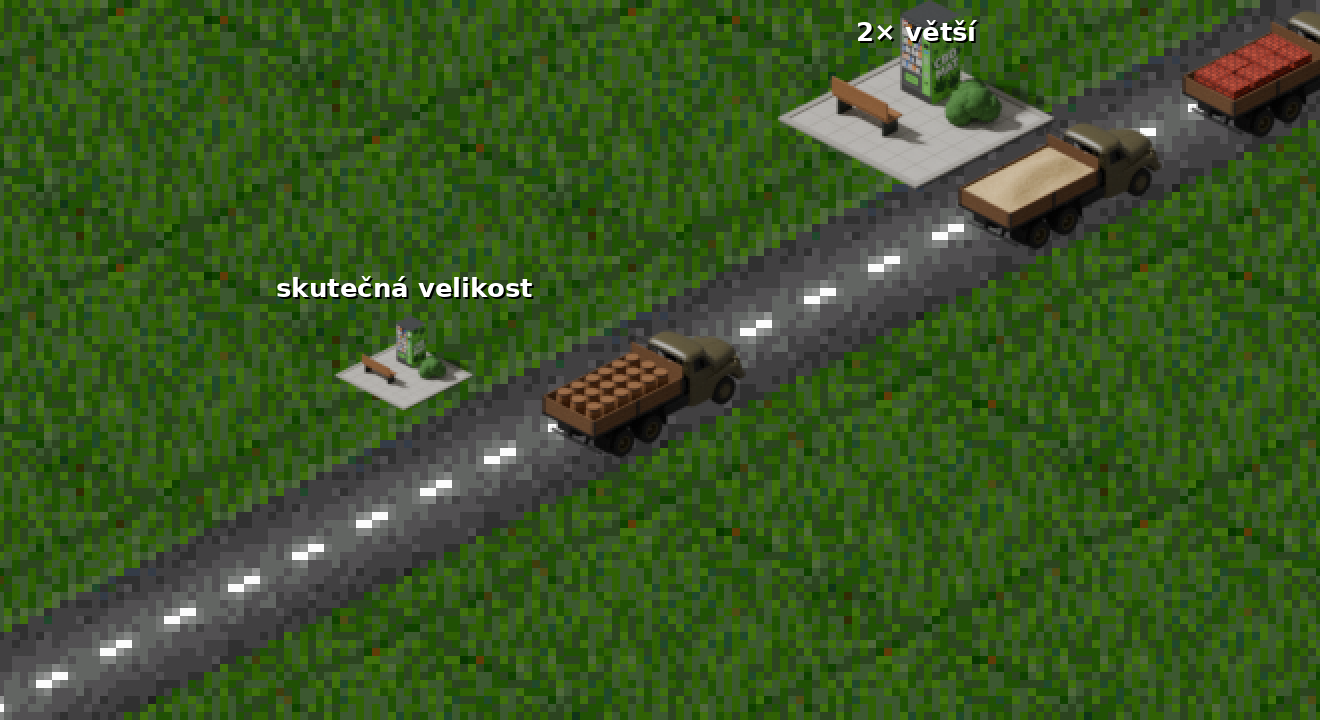
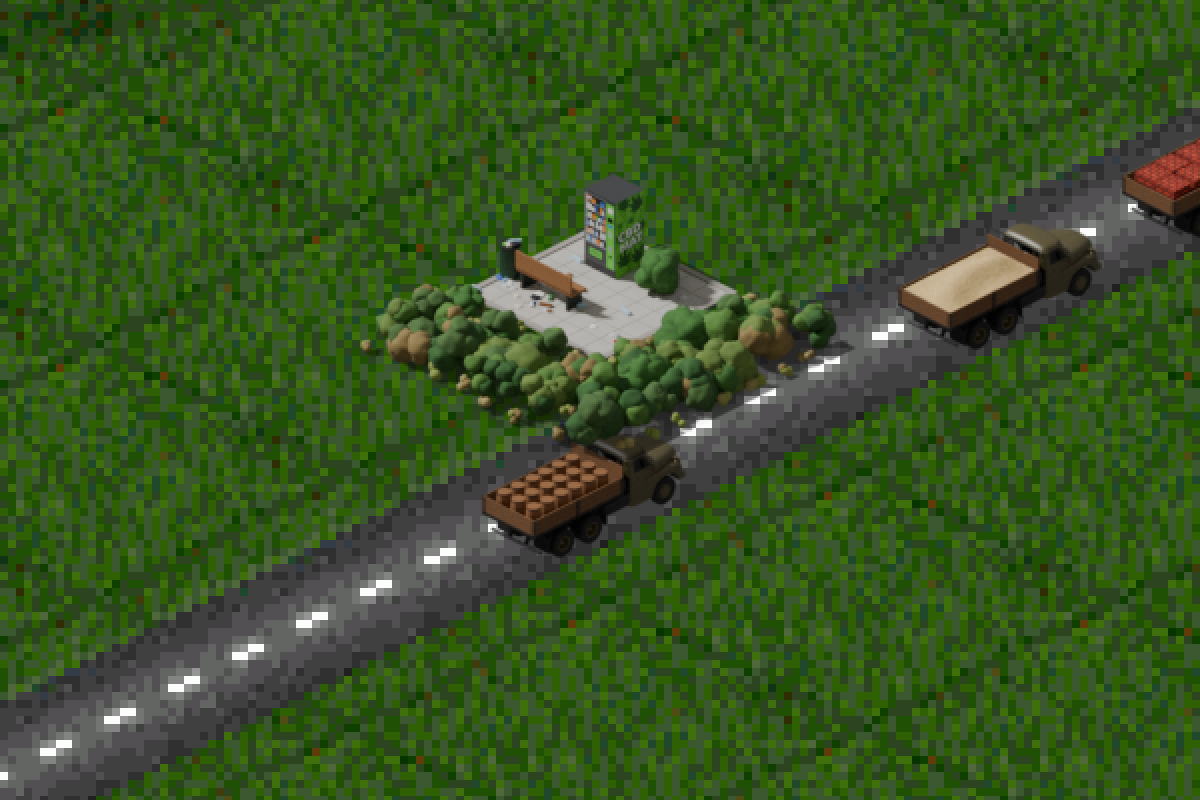
Automat do severniho rohu policka, kolem divoke krovi, kos a odpadky
Hrac: "2x vetsi jo, dame do rohu policka a zbytek policka krovi",
"vedle lavicky dej odpadkovy kos a odpadky rozhazene po zemi". Krovi z
koulí primo v siti se sumem, render 20 s misto desitek minut.

Claude-Session: https://claude.ai/code/session_01P6zYdmMEQjTTZJyV6Qb8Ch

diff --git a/automat/render_automat.py b/automat/render_automat.py
@@ -6,7 +6,9 @@
 # klapka se zelenym stitkem PULL, bok polepeny zelenou folii s listy konopi, paprsky a bilym napisem CBD MAT.
 # Skupina je ctverec (hrac: "to mas obdelnicek, neco jako 2x1 policko", "lavicku postav pred automat, otoc ji
 # sedadlem k automatu a mas ctverec"): automat vzadu, lavicka pred nim sedadlem k nemu, ker vedle, dlazba 4 x 4 m
-# s obrubnikem uprostred policka. MERITKO=2 zvetsi celou skupinu i s dlazbou kolem stredu policka.
+# s obrubnikem. Hrac: "2x vetsi jo, dame do rohu policka a zbytek policka krovi", "vedle lavicky dej odpadkovy kos
+# a odpadky rozhazene po zemi": skupina je v severnim rohu policka (MERITKO, vychozi 2), zbytek zarostly divokym
+# neudrzovanym krovim stejne zvetsenym, mezi nim plevel.
 #   python3 render_automat.py <vystup.png>
 # Souradnice jako ve hre: x k jihozapadu, y k jihovychodu, z nahoru, pocatek v severnim rohu policka.
 import bpy, bmesh, os, sys, math, json, random
@@ -18,7 +20,7 @@ from PIL import Image, ImageDraw, ImageFont
 VYSTUP = sys.argv[-1]
 PX_M = 12.2
 RAM = 384
-K = float(os.environ.get("MERITKO", "1"))
+K = float(os.environ.get("MERITKO", "2"))
 T = 256 / (math.sqrt(2) * PX_M)               # policko 14,84 m
 C = T / 2                                       # stred policka
 TU = os.path.dirname(os.path.abspath(__file__))
@@ -160,16 +162,35 @@ M = {
     "lavicka": mat("lavicka", (138, 92, 52), 0.7),
     "kov": mat("kov", (52, 58, 54), 0.5, kov=0.5),
     "ker": mat("ker", (54, 98, 40), 0.9, sum_=0.32, meritko=9.0),
+    "kos": mat("kos", (38, 70, 46), 0.5, kov=0.3),
+    "cerna": mat("cerna", (14, 14, 14), 0.9),
 }
+# divoke krovi: nekolik zeleni (i zlutava a tmava), suche hnede, plevel
+KRE = [mat(f"krovi{i}", c, 0.9, sum_=0.3, meritko=9.0) for i, c in
+       enumerate([(54, 98, 40), (70, 108, 44), (44, 82, 36), (88, 112, 50), (62, 92, 46)])]
+SUCHE = mat("suche", (122, 104, 62), 0.95, sum_=0.25, meritko=9.0)
+PLEVEL = [mat("plevel0", (124, 140, 66), 0.95, sum_=0.25, meritko=12.0), mat("plevel1", (146, 136, 84), 0.95, sum_=0.25, meritko=12.0)]
+ODPAD = {"papir": [mat(f"papir{i}", c, 0.9) for i, c in enumerate([(236, 234, 226), (214, 206, 186), (200, 200, 204)])],
+         "plech": [mat(f"plech{i}", c, 0.35, kov=0.6) for i, c in enumerate([(196, 30, 34), (190, 192, 196), (36, 80, 170), (40, 140, 60)])],
+         "lahev": [mat(f"lahev{i}", c, 0.2) for i, c in enumerate([(160, 196, 214), (70, 140, 70), (120, 80, 40)])],
+         "kelimek": [mat(f"kelimek{i}", c, 0.7) for i, c in enumerate([(240, 240, 236), (150, 100, 60)])],
+         "sacek": [mat(f"sacek{i}", c, 0.6) for i, c in enumerate([(232, 232, 232), (60, 90, 170), (30, 30, 30)])],
+         "balicek": [mat("balicek", (96, 200, 58), 0.5)]}
 
 SITE = {}
 def bm_pro(m):
     if m.name not in SITE: SITE[m.name] = (m, bmesh.new())
     return SITE[m.name][1]
 
+OKRAJ = 0.3                                     # dlazba od severnich hran policka
+PC = OKRAJ + 2.0 * K                            # stred dlazby (4 x 4 m krat K) v severnim rohu
 def B(x, y, z):
-    """policko -> Blender; skupina je kolem stredu policka zvetsena K krat"""
-    return Vector((C + (y - C) * K, -(C + (x - C) * K), z * K))
+    """skupina -> Blender: skupina je navrzena kolem stredu policka C, zvetsena K krat a posunuta do severniho rohu"""
+    return Vector((PC + (y - C) * K, -(PC + (x - C) * K), z * K))
+
+def Bp(x, y, z):
+    """policko -> Blender bez zvetseni (divoke krovi)"""
+    return Vector((y, -x, z))
 
 def kvadr(m, x0, x1, y0, y1, z0, z1, pevne=False):
     """kvadr; pevne = na policku bez zvetseni (dlazba)"""
@@ -226,18 +247,110 @@ for i in range(n_):
         x, y = D0 + OBR + kr * i, D0 + OBR + kr * j
         kvadr(M["dlazba"], x + 0.012, x + kr - 0.012, y + 0.012, y + kr - 0.012, 0.0, Z_D)
 
-# kericek vpravo za automatem: par koul s hrbolky, mekce stinovany
-rnd = random.Random(5)
-KX, KY, KR = AX0 + 0.6, AY1 + 0.95, 0.6               # vpravo vedle automatu
-for i in range(9):                                     # hrbolaty ker z mensich chumacu, ne hladka koule
-    a = rnd.random() * 2 * math.pi; d = KR * 0.6 * math.sqrt(rnd.random())
-    rr = KR * (0.38 + 0.16 * rnd.random())
-    zc = KR * (0.45 + 0.5 * rnd.random()) * (1 - 0.4 * d / KR)
-    bpy.ops.mesh.primitive_ico_sphere_add(subdivisions=3, radius=rr * K, location=B(KX + d * math.cos(a), KY + d * math.sin(a), zc))
-    o = bpy.context.object; o.data.materials.append(M["ker"])
-    for p in o.data.polygons: p.use_smooth = True
-    dm = o.modifiers.new("hrbol", 'DISPLACE'); tx = bpy.data.textures.new(f"ker{i}", 'CLOUDS'); tx.noise_scale = 0.09 * K
-    dm.texture = tx; dm.strength = rr * 0.55 * K
+from mathutils import Matrix, noise
+def ker(cx, cy, r, vyska, materialy, seed, v_policku=False, chumacu=9, deleni=3):
+    """hrbolaty ker z chumacu koul: ve skupine (souradnice skupiny, zvetsi se K krat), nebo na policku (metry).
+    Koule jdou rovnou do site materialu (bmesh) a hrbolky dela sum na vrcholech, ne objekt s modifikatorem na kazdou
+    kouli: s divokym krovim je jich stovky a Blender by se s tolika objekty vlekl."""
+    rnd = random.Random(seed)
+    mapa, s = (Bp, 1.0) if v_policku else (B, K)
+    for i in range(chumacu):
+        a = rnd.random() * 2 * math.pi; d = r * 0.6 * math.sqrt(rnd.random())
+        rr = r * (0.38 + 0.16 * rnd.random())
+        zc = max(rr * 0.55, vyska * (0.45 + 0.5 * rnd.random()) * (1 - 0.4 * d / r) - rr * 0.3)
+        stred_ = mapa(cx + d * math.cos(a), cy + d * math.sin(a), zc)
+        bm = bm_pro(rnd.choice(materialy))
+        nove_v = bmesh.ops.create_icosphere(bm, subdivisions=deleni, radius=rr * s, matrix=Matrix.Translation(stred_))["verts"]
+        posun = Vector((rnd.random(), rnd.random(), rnd.random())) * 100
+        for v in nove_v:                                   # hrbolky: sum podel normaly jako drive Clouds a Displace
+            smer = (v.co - stred_).normalized()
+            n_ = noise.noise(v.co / (0.09 * s * 4) + posun) * 0.5 + noise.noise(v.co / (0.09 * s * 2) + posun) * 0.25
+            v.co += smer * n_ * rr * 0.55 * s
+        for f in {f for v in nove_v for f in v.link_faces}: f.smooth = True
+
+# kericek vpravo vedle automatu
+ker(AX0 + 0.6, AY1 + 0.95, 0.6, 1.0, [M["ker"]], 5)
+
+# odpadkovy kos vlevo vedle lavicky: zeleny plechovy valec s okrajem, plny az pres okraj
+LX, LY = AX1 + 1.4, (AY0 + AY1) / 2                  # stred lavicky
+KOSX, KOSY = LX, LY - 1.2
+def valec(m, x, y, z0, z1, r, n=16):
+    bm = bm_pro(m)
+    dole = [bm.verts.new(B(x + r * math.cos(2 * math.pi * k / n), y + r * math.sin(2 * math.pi * k / n), z0)) for k in range(n)]
+    nahore = [bm.verts.new(B(x + r * math.cos(2 * math.pi * k / n), y + r * math.sin(2 * math.pi * k / n), z1)) for k in range(n)]
+    bm.faces.new(dole[::-1]); bm.faces.new(nahore)
+    for k in range(n):
+        bm.faces.new((dole[k], dole[(k + 1) % n], nahore[(k + 1) % n], nahore[k]))
+valec(M["kos"], KOSX, KOSY, 0.04, 0.76, 0.22)
+valec(M["kov"], KOSX, KOSY, 0.74, 0.79, 0.24)
+valec(M["cerna"], KOSX, KOSY, 0.79, 0.792, 0.19)
+
+# odpadky: papiry, plechovky, PET lahve, kelimky, sacky a zelene balicky z automatu, nejvic kolem kose a pod lavickou
+rnd_o = random.Random(11)
+def odpadek(x, y, z0=0.0):
+    x = min(max(x, D0 + 0.12), D1 + 0.5); y = min(max(y, D0 + 0.12), D1 + 0.5)    # jen na dlazbe a u ni, ne za policko
+    druh = rnd_o.choices(["papir", "plech", "lahev", "kelimek", "sacek", "balicek"], [30, 18, 14, 10, 12, 16])[0]
+    m = rnd_o.choice(ODPAD[druh]); uhel = rnd_o.random() * 2 * math.pi
+    if druh in ("papir", "sacek"):
+        r = 0.09 if druh == "papir" else 0.14
+        bpy.ops.mesh.primitive_ico_sphere_add(subdivisions=1, radius=r * K, location=B(x, y, z0 + r * 0.35))
+        o = bpy.context.object; o.scale = (1.0, 0.8 + 0.4 * rnd_o.random(), 0.45 if druh == "papir" else 0.22)
+        o.rotation_euler[2] = uhel
+    elif druh == "balicek":
+        bpy.ops.mesh.primitive_cube_add(size=1, location=B(x, y, z0 + 0.012)); o = bpy.context.object
+        o.scale = (0.12 * K, 0.08 * K, 0.026 * K); o.rotation_euler[2] = uhel
+    else:
+        r, delka = {"plech": (0.04, 0.14), "lahev": (0.05, 0.28), "kelimek": (0.045, 0.1)}[druh]
+        bpy.ops.mesh.primitive_cylinder_add(vertices=10, radius=r * K, depth=delka * K, location=B(x, y, z0 + r),
+                                            rotation=(math.radians(90), 0, uhel))
+        o = bpy.context.object
+    o.data.materials.append(m)
+for i in range(22):                                                              # kolem kose
+    odpadek(KOSX + rnd_o.gauss(0, 0.5), KOSY + rnd_o.gauss(0, 0.5))
+for i in range(5):                                                               # pres okraj kose
+    a = rnd_o.random() * 2 * math.pi
+    odpadek(KOSX + 0.1 * math.cos(a), KOSY + 0.1 * math.sin(a), 0.79)
+for i in range(12):                                                              # pod lavickou a pred ni
+    odpadek(LX + rnd_o.uniform(-0.6, 0.6), LY + rnd_o.uniform(-0.85, 0.85))
+for i in range(25):                                                              # po cele dlazbe
+    odpadek(rnd_o.uniform(D0 + 0.25, D1 - 0.25), rnd_o.uniform(D0 + 0.25, D1 - 0.25))
+for i in range(10):                                                              # zafoukane do krovi u dlazby
+    if rnd_o.random() < 0.5: odpadek(D1 + rnd_o.uniform(0.0, 0.5), rnd_o.uniform(D0, D1))
+    else: odpadek(rnd_o.uniform(D0, D1), D1 + rnd_o.uniform(0.0, 0.5))
+
+# divoke neudrzovane krovi na zbytku policka (metry na policku, stejne zvetsene jako skupina), u dlazby nizsi,
+# at lavicka a automat zustanou videt; v mezerach plevel
+D_KRAJ = OKRAJ + 4.0 * K                              # jizni a vychodni hrana dlazby na policku
+rnd_k = random.Random(21)
+kere = []
+for pokus in range(4000):
+    r = K * rnd_k.uniform(0.45, 0.95)
+    x, y = rnd_k.uniform(0.15 + r, T - 0.15 - r), rnd_k.uniform(0.15 + r, T - 0.15 - r)
+    if x - r < D_KRAJ + 0.25 and y - r < D_KRAJ + 0.25:                            # na dlazbe ne
+        continue
+    if any(math.hypot(x - a, y - b) < 0.72 * (r + c) for a, b, c, _ in kere):
+        continue
+    u_dlazby = math.hypot(max(x - D_KRAJ, 0), max(y - D_KRAJ, 0)) - r          # mezera mezi kerem a dlazbou
+    vyska = K * rnd_k.uniform(0.75, 1.6)
+    if u_dlazby < 2.2 * K: vyska = min(vyska, K * 0.6 + 0.3 * u_dlazby)                 # u dlazby nizsi
+    kere.append((x, y, r, vyska))
+for i, (x, y, r, vyska) in enumerate(kere):
+    mats = rnd_k.sample(KRE, 2) + ([SUCHE] if rnd_k.random() < 0.3 else [])
+    ker(x, y, r, vyska, mats, 100 + i, v_policku=True, chumacu=rnd_k.randint(7, 12))
+plevel, trsy = 0, []
+for pokus in range(1500):
+    x, y = rnd_k.uniform(0.4, T - 0.4), rnd_k.uniform(0.4, T - 0.4)
+    if x < D_KRAJ + 0.15 and y < D_KRAJ + 0.15:
+        continue
+    if any(math.hypot(x - a, y - b) < c * 0.95 for a, b, c, _ in kere):
+        continue
+    r = K * rnd_k.uniform(0.18, 0.3)
+    if any(math.hypot(x - a, y - b) < 1.6 * (r + c) for a, b, c in trsy):
+        continue
+    trsy.append((x, y, r))
+    ker(x, y, r, r * 1.6, PLEVEL + [SUCHE], 500 + plevel, v_policku=True, chumacu=4, deleni=2)
+    plevel += 1
+print("kru", len(kere), "plevele", plevel)
 
 for jmeno, (m, bm) in SITE.items():
     me = bpy.data.meshes.new(jmeno); bm.to_mesh(me); bm.free()

diff --git a/automat/README.md b/automat/README.md
@@ -1,27 +1,33 @@
 # Automat na marihuanu (1 políčko)
 
 Hráč 1. 10. s fotkami automatů CBD MAT: *„ještě udělej 1x1 políčko automat na marihuanu s lavičkou a keříčkem
-křoví“*, pak *„to máš obdélníček, něco jako 2x1 políčko“*, *„lavičku postav před automat, otoč ji sedadlem
-k automatu a máš čtverec“*. Jen obrázek jako u gymnázia, do hry ho zabuduje session hry ve forclaude.
+křoví“*, pak *„lavičku postav před automat, otoč ji sedadlem k automatu a máš čtverec“*, *„2x větší jo, dáme do
+rohu políčka a zbytek políčka křoví“*, *„vedle lavičky dej odpadkový koš a odpadky rozházené po zemi“*.
+Jen obrázek jako u gymnázia, do hry ho zabuduje session hry ve forclaude.
 
-Vlastní model, žádný cizí: `render_automat.py` ho postaví v Blenderu a vyfotí. Kamera, měřítko a světlo jako
-gymnázium (`gymnazium/`) a auta: 12,2 px/m v přiblížení 4×, políčko 14,84 m, stín na trávu na 55 %.
+Vlastní model, žádný cizí: `render_automat.py` ho postaví v Blenderu a vyfotí. Kamera a světlo jako gymnázium
+(`gymnazium/`) a auta, stín na trávu na 55 %.
 
-- **Automat podle fotek:** tmavě šedá skříň 90 × 85 × 183 cm na nožičkách. Vpředu prosklená dvířka se šesti
-  policemi balíčků, svítícím pásem LED a nálepkou POZOR, vpravo zelený pruh s ceníkem, čtečkou karet, displejem,
-  klávesnicí a mincemi, dole výdejní klapka se zeleným štítkem PULL. Bok polepený zelenou fólií s listy konopí,
-  paprsky a bílým nápisem CBD MAT. Polep a předek kreslí skript sám (`textury/bok.png`, `textury/predek.png`).
-- **Kolem, do čtverce:** automat vzadu, lavička před ním sedadlem k automatu, hrbolatý keřík vpravo vedle
-  automatu, pod tím čtverec 4 × 4 m betonové dlažby 50 cm se spárami a obrubníkem, uprostřed políčka.
-  Předek automatu míří k jihozápadu (na obrázku doleva dolů), bok s polepem k jihovýchodu.
-- Ve skutečné velikosti je automat při přiblížení 4× jen asi 15 × 20 px. Proto i dvakrát větší skupina
-  (`MERITKO=2`, i s dlažbou 8 × 8 m), vedle aut je ale velká: automat 3,7 m, lavička 3,2 m. Hráč vybere.
+- **Automat podle fotek:** tmavě šedá skříň na nožičkách. Vpředu prosklená dvířka se šesti policemi balíčků,
+  svítícím pásem LED a nálepkou POZOR, vpravo zelený pruh s ceníkem, čtečkou karet, displejem, klávesnicí
+  a mincemi, dole výdejní klapka se zeleným štítkem PULL. Bok polepený zelenou fólií s listy konopí, paprsky
+  a bílým nápisem CBD MAT. Polep a předek kreslí skript sám (`textury/bok.png`, `textury/predek.png`).
+- **Do čtverce:** automat vzadu, lavička před ním sedadlem k automatu, keřík vpravo vedle, zelený plechový koš
+  vlevo vedle lavičky, plný až přes okraj. Pod tím čtverec betonové dlažby se spárami a obrubníkem.
+- **Odpadky** po dlažbě, nejvíc kolem koše a pod lavičkou, pár zafoukaných do křoví: papíry, sáčky, plechovky,
+  PET lahve, kelímky a zelené balíčky z automatu.
+- **Dvakrát větší** (hráč vybral ze skutečné a dvojnásobné): ve skutečné velikosti by měl automat při přiblížení
+  4× jen asi 15 × 20 px. Automat 3,7 m, dlažba 8 × 8 m. Stejně zvětšené je i křoví.
+- **V severním rohu políčka** (na obrázku nahoře), dlažba 0,3 m od severních hran. **Zbytek políčka** zarostlý
+  divokým neudržovaným křovím v několika zelených, některé keře se suchými hnědými místy, mezi nimi plevel.
+  U dlažby je křoví nižší, aby lavička a automat zůstaly vidět. Všechno je uvnitř políčka.
 
 | soubor | co to je |
 |---|---|
-| `automat_zin4.png` | skutečná velikost, 384 × 384 px, 32 bpp s průhledností, přiblížení 4× |
-| `automat_2x_zin4.png` | totéž dvakrát větší |
-| `*_zin4.json` | rohy políčka na obrázku: sever (192, 128), východ (320, 192), západ (64, 192), jih (192, 256) |
-| `nahled_ve_hre.png` | obě velikosti ve fotce ze zkušební hry u silnice s Tatrami, zvětšeno 2× |
+| `automat_zin4.png` | obrázek, 384 × 384 px, 32 bpp s průhledností, přiblížení 4× |
+| `automat_zin4.json` | rohy políčka na obrázku: sever (192, 128), východ (320, 192), západ (64, 192), jih (192, 256) |
+| `nahled_ve_hre.png` | obrázek ve fotce ze zkušební hry u silnice s Tatrami, zvětšeno 2× |
 
-Složit znovu: `python3 render_automat.py <výstup.png>`, dvakrát větší `MERITKO=2 python3 render_automat.py …`.
+Složit znovu: `python3 render_automat.py <výstup.png>` (128 vzorků, asi 20 s). `MERITKO=1` dá skutečnou velikost.
+Křoví se skládá z koulí přímo v síti (bmesh) s hrbolky ze šumu: stovky samostatných objektů s modifikátory
+by Blender zpomalily na desítky minut.
